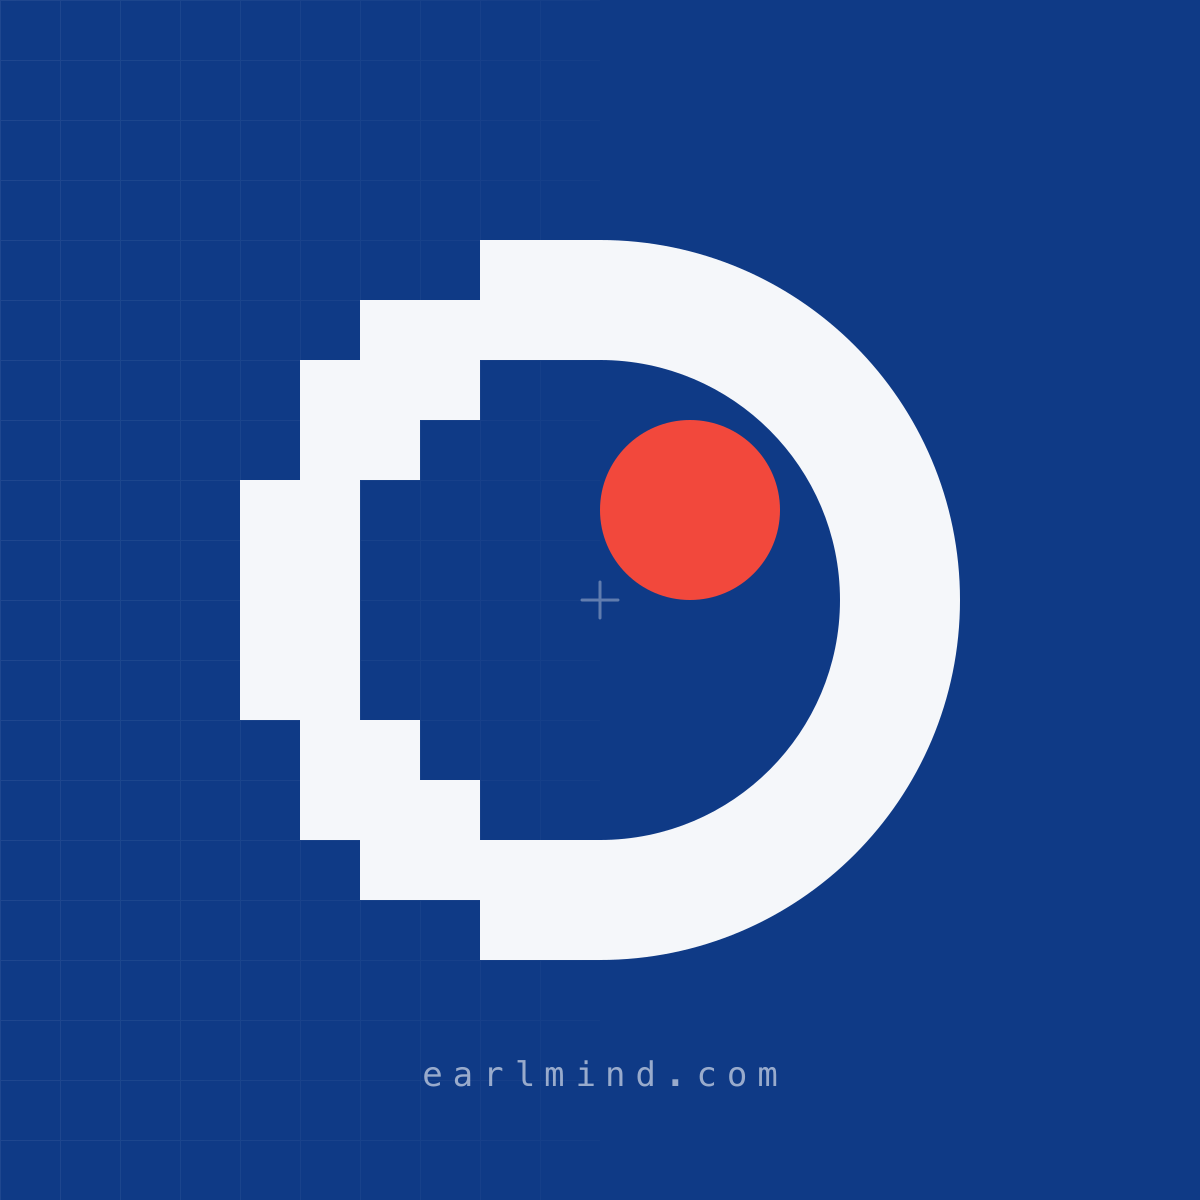
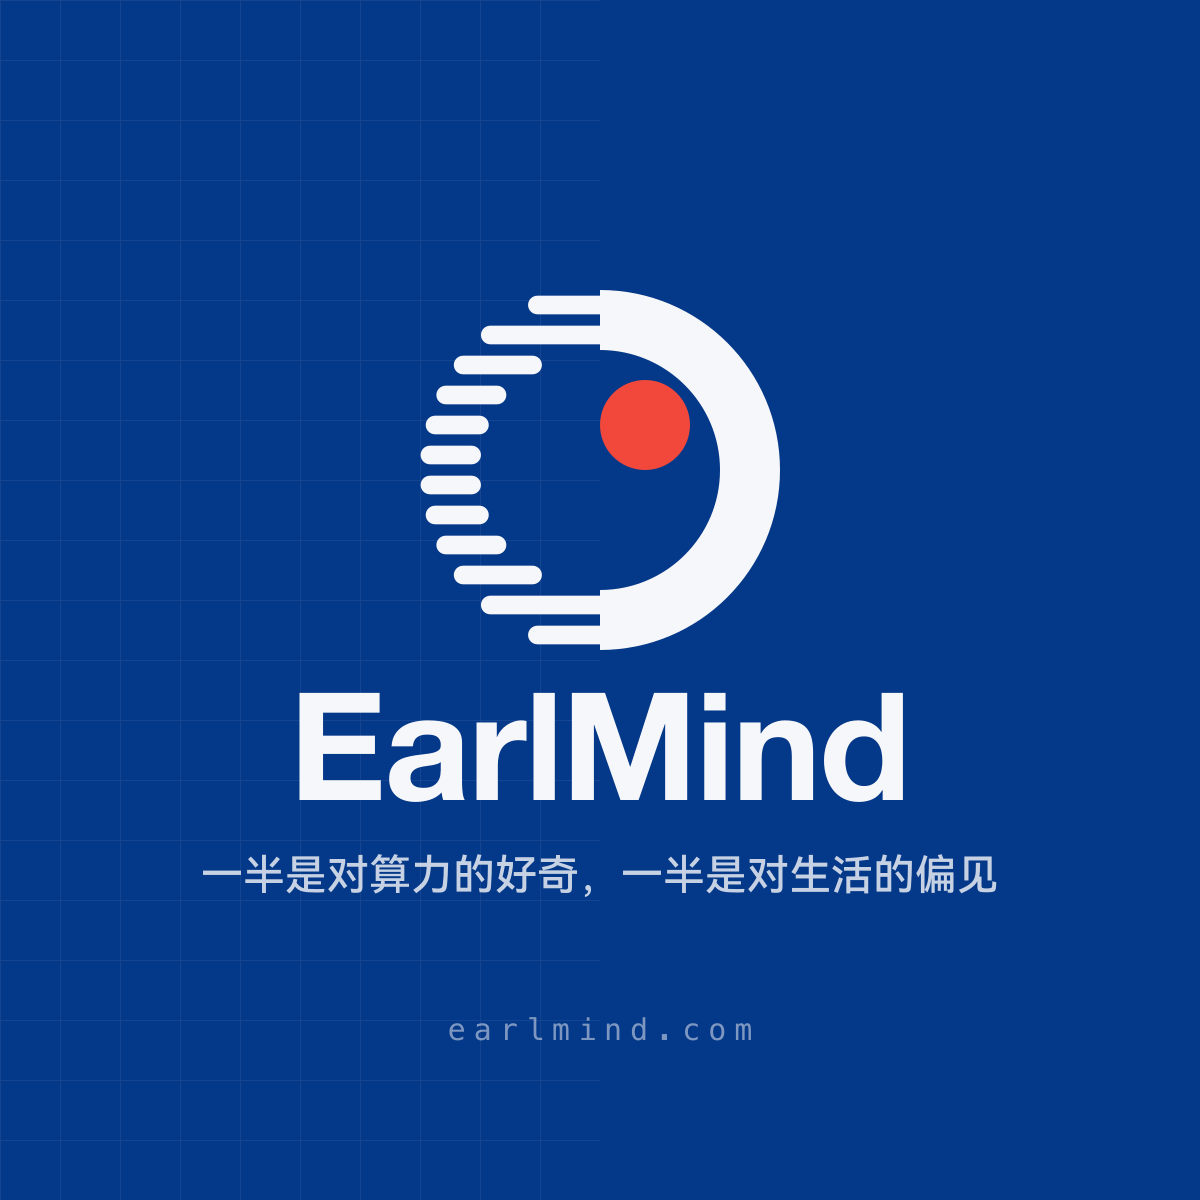
更新素材

diff --git a/design/export/build_assets.py b/design/export/build_assets.py
@@ -203,10 +203,42 @@ def emit(out: Path, *, favicon: str, ico: dict[int, str], square: str, wechat: s
     logger.success("{} 素材已输出到 {}", out.name, out.relative_to(DESIGN.parent.parent))
 
 
+def og_square() -> str:
+    k = 30
+    tx, ty = 600 - 8 * k, 470 - 8 * k
+    text = (
+        f'<text x="600" y="800" text-anchor="middle" fill="{WHITE}" font-family="Helvetica Neue, sans-serif" '
+        f'font-weight="700" font-size="150" letter-spacing="-2">EarlMind</text>'
+        f'<text x="600" y="890" text-anchor="middle" fill="{WHITE}" fill-opacity=".8" '
+        f'font-family="HarmonyOS Sans SC, Helvetica Neue, sans-serif" font-weight="500" font-size="42">'
+        f"一半是对算力的好奇，一半是对生活的偏见</text>"
+        f'<text x="600" y="1040" text-anchor="middle" fill="{WHITE}" fill-opacity=".5" '
+        f'font-family="Menlo, Andale Mono, monospace" font-size="30" letter-spacing="8">earlmind.com</text>'
+    )
+    grid = (
+        f'<defs><pattern id="px" width="60" height="60" patternUnits="userSpaceOnUse">'
+        f'<path d="M60 0H0V60" fill="none" stroke="{WHITE}" stroke-opacity=".07" stroke-width="2"/></pattern></defs>'
+        f'<rect width="600" height="1200" fill="url(#px)"/>'
+    )
+    mark = f'<g transform="translate({tx} {ty}) scale({k})">{mind_mark(scanline=True)}</g>'
+    return doc(1200, 1200, bg(1200, 1200) + grid + mark + text)
+
+
+def write_og(out: Path) -> None:
+    og = og_square()
+    src = out / "source"
+    src.mkdir(parents=True, exist_ok=True)
+    (src / "og-image.svg").write_text(og, encoding="utf-8")
+    with tempfile.TemporaryDirectory() as td:
+        raster(og, 1200, out / "og-image.png", Path(td))
+    logger.success("OG 已输出到 {}", (out / "og-image.png").relative_to(DESIGN.parent.parent))
+
+
 def main() -> None:
     try:
         mind = earlmind_set()
         emit(DESIGN / "earlmind", **mind)
+        write_og(DESIGN / "earlmind")
         etf = earletf_set()
         emit(DESIGN / "earletf", **etf)
     except ValueError as e:
